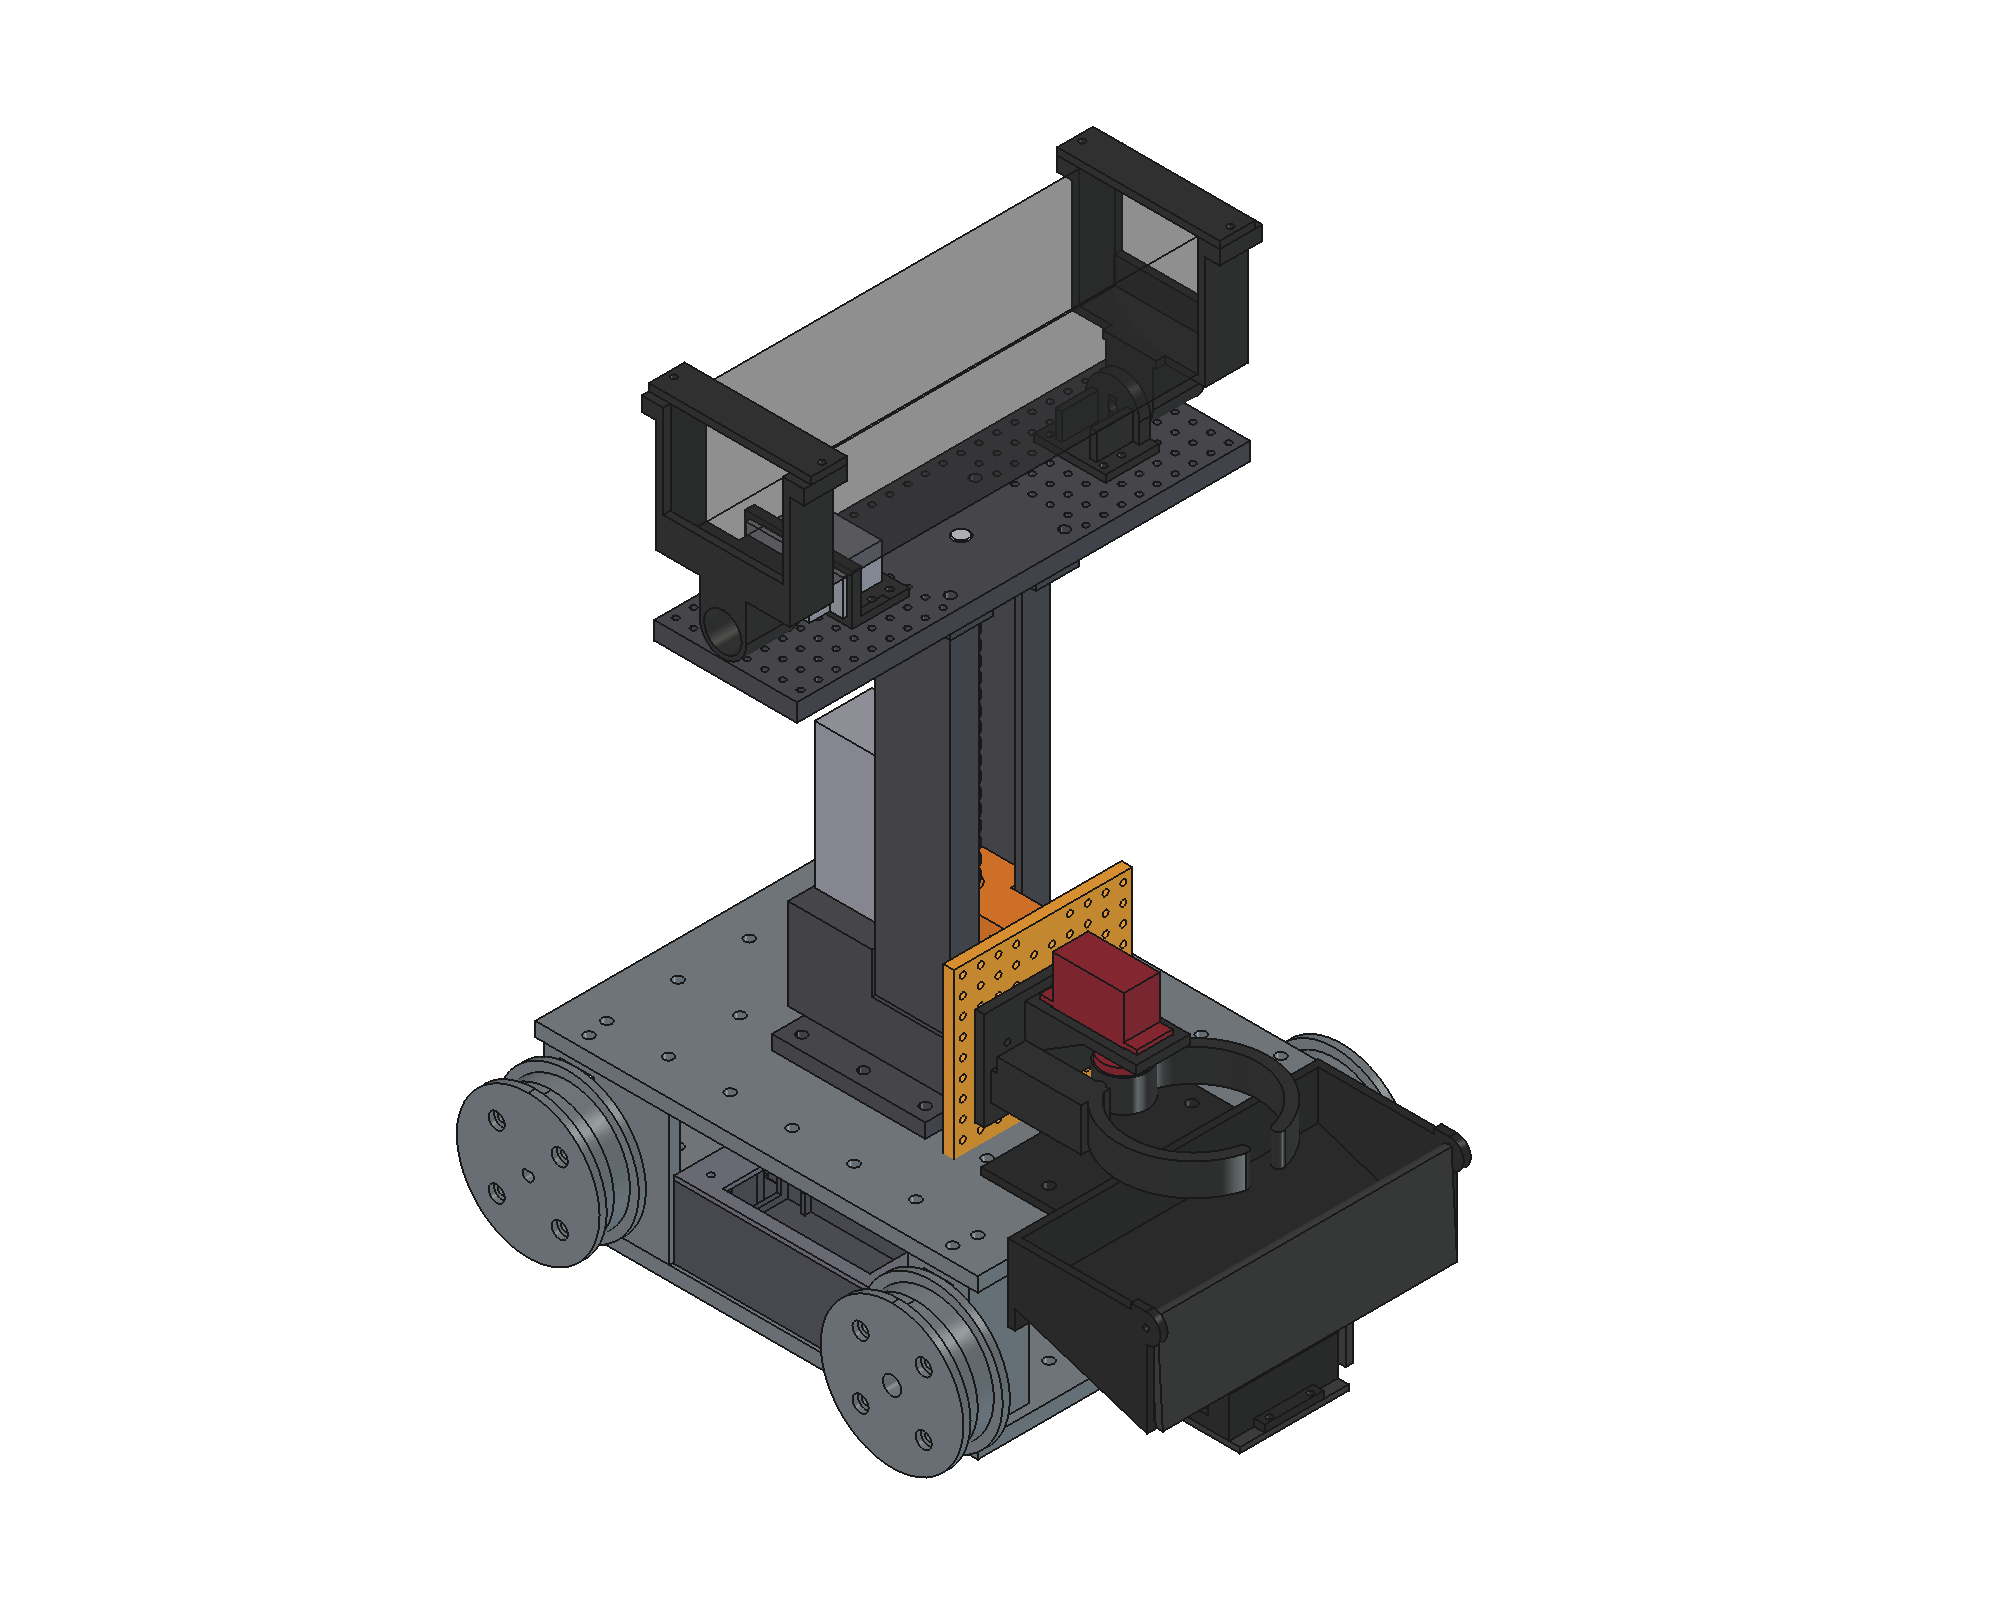
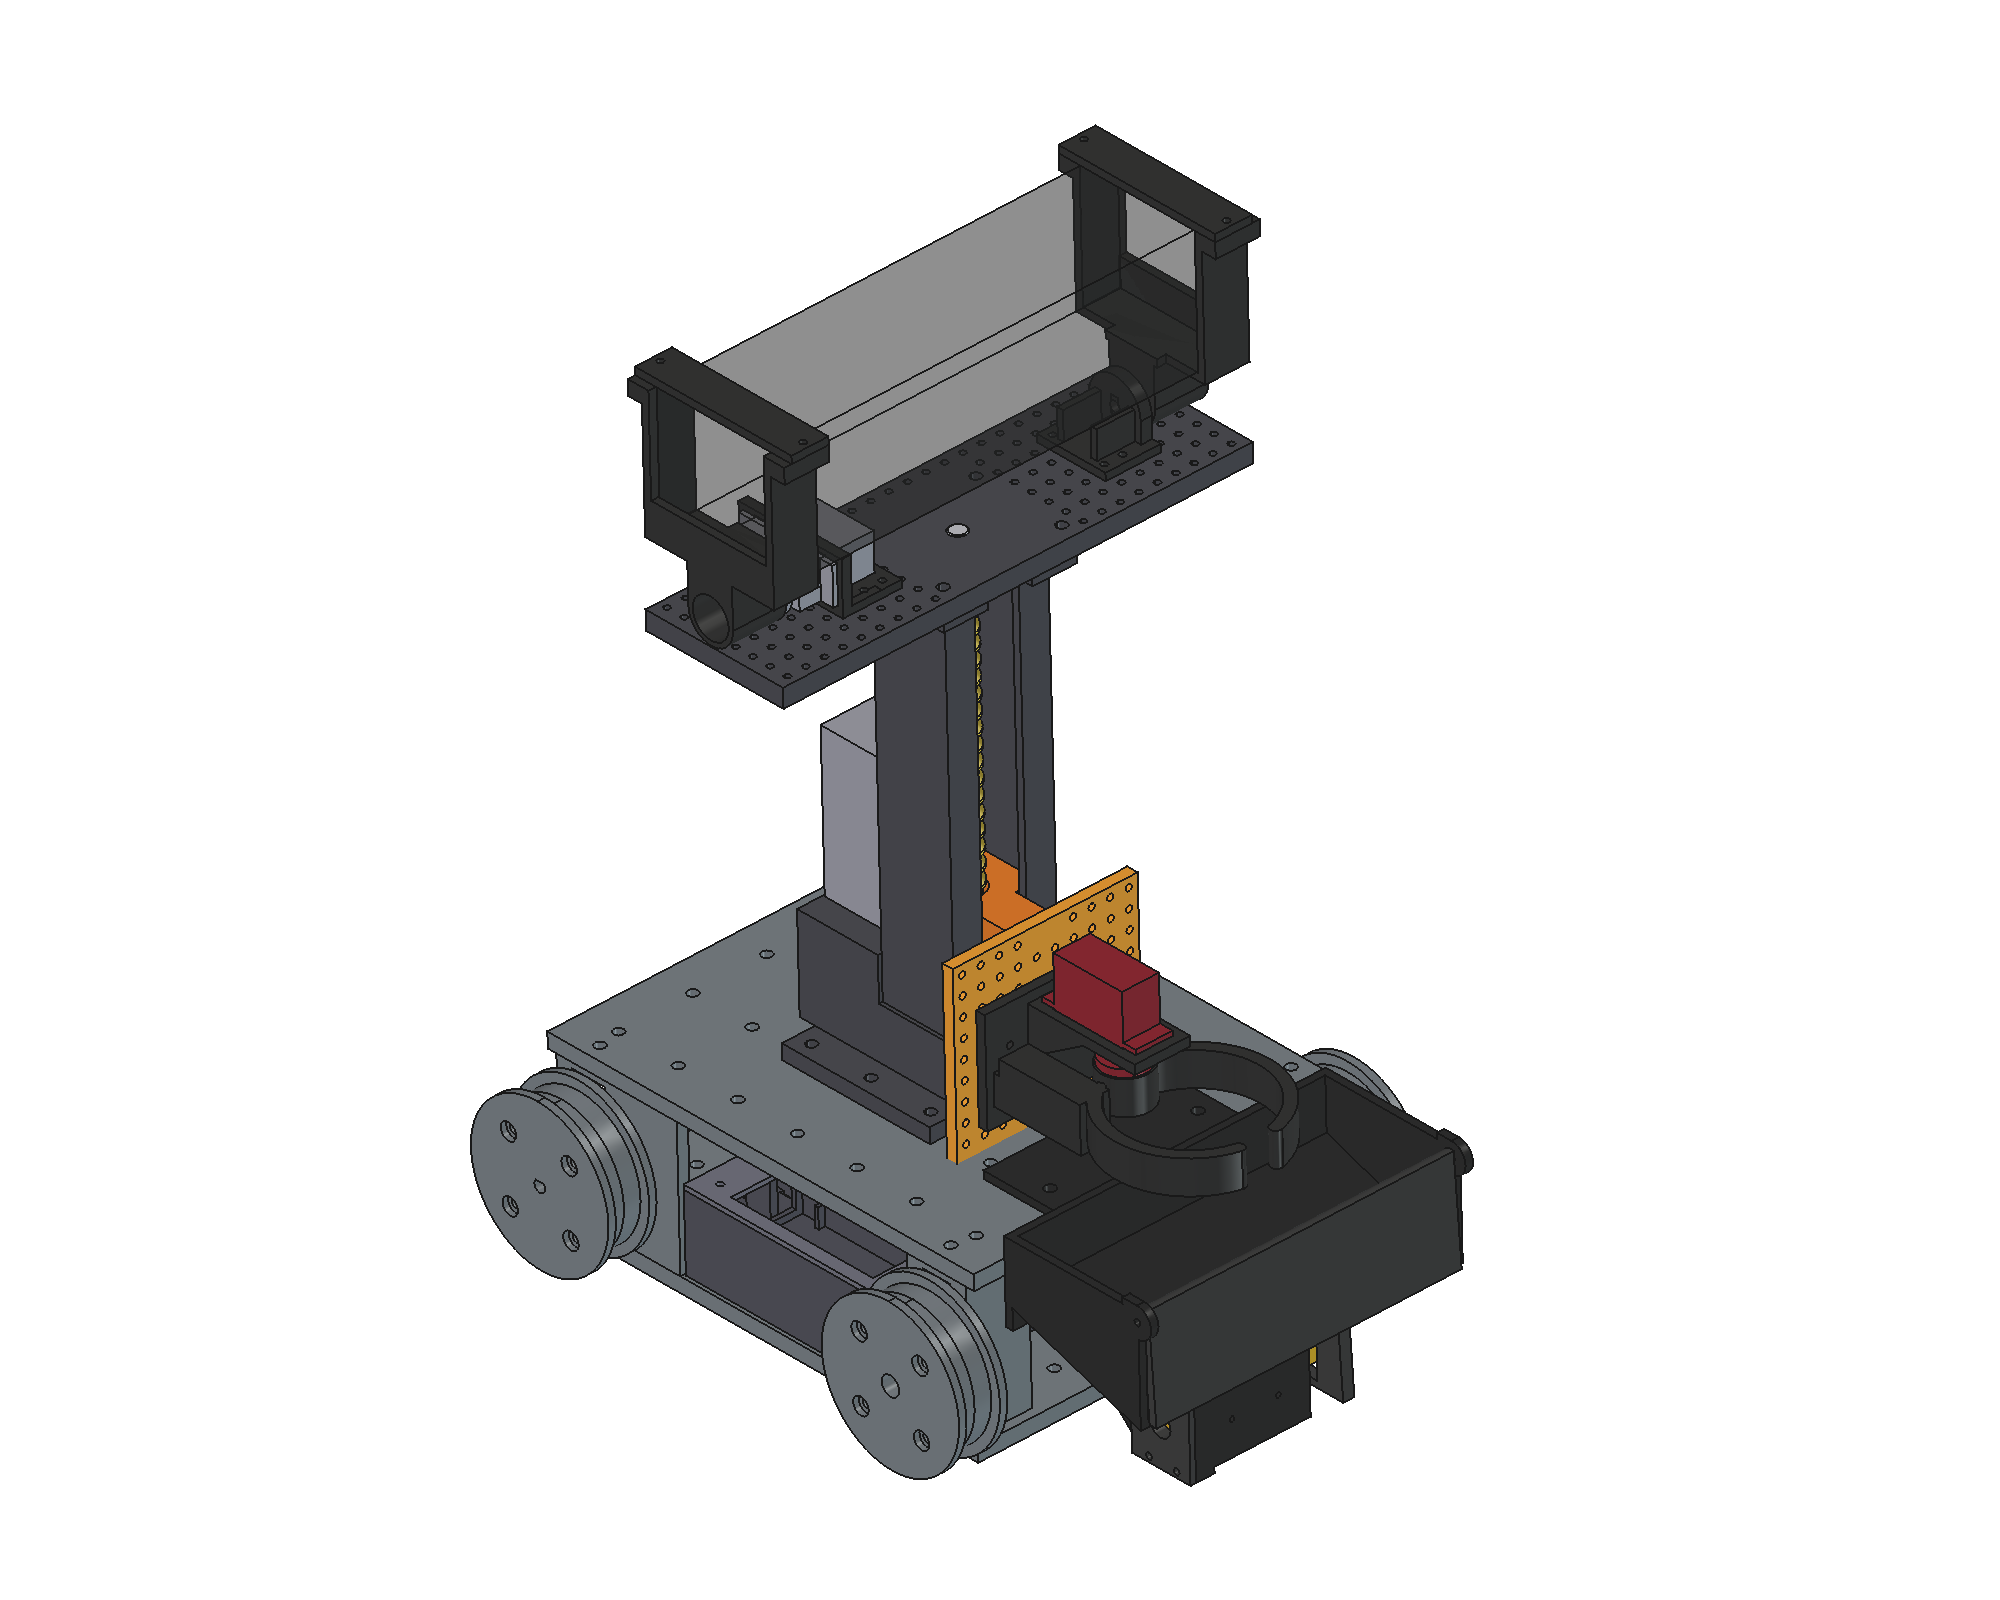
Add photos of the assembled robot; hopper v3 tested
Front and side photos of the printed robot with the hopper installed, in the
README and on the project page. Hopper v3 marked as tested: the lock fits the
tunnel and the latch locks and releases the door. Full-robot renders
regenerated with the v3 hopper.

diff --git a/docs/index.html b/docs/index.html
@@ -110,6 +110,8 @@
     <figure><img src="https://raw.githubusercontent.com/GHTassinari/CitrusHarvestingRobot/main/images/kinect-mount.png" alt="Kinect v2 tilt mount"><figcaption>Kinect v2 tilt mount: −15° to +20°</figcaption></figure>
     <figure><img src="https://raw.githubusercontent.com/GHTassinari/CitrusHarvestingRobot/main/images/gripper.png" alt="Cage gripper for oranges"><figcaption>Cage gripper: Ø72 mm ring, single servo</figcaption></figure>
     <figure><img src="https://raw.githubusercontent.com/GHTassinari/CitrusHarvestingRobot/main/images/hopper-side.png" alt="Hopper with solenoid-locked door"><figcaption>Hopper with a solenoid-locked gravity door</figcaption></figure>
+    <figure><img src="https://raw.githubusercontent.com/GHTassinari/CitrusHarvestingRobot/main/images/photo-front.jpg" alt="Photo of the assembled robot, front view"><figcaption>The assembled prototype (front)</figcaption></figure>
+    <figure><img src="https://raw.githubusercontent.com/GHTassinari/CitrusHarvestingRobot/main/images/photo-side.jpg" alt="Photo of the assembled robot, side view"><figcaption>The assembled prototype (side)</figcaption></figure>
   </div>
 
   <h2>Key specifications</h2>

diff --git a/README.md b/README.md
@@ -57,6 +57,15 @@ The platform is meant to be **expandable**: the top plates use a regular hole gr
 > [!NOTE]
 > Scope of this release: mechanics and embedded hardware. Fruit detection with computer vision, the integrated harvesting software and field tests are planned as future work (see [Roadmap](#roadmap-and-proposed-improvements)).
 
+### The assembled prototype
+
+<p align="center">
+<img src="images/photo-front.jpg" alt="Assembled prototype, front view: tracked chassis, elevator, Kinect v2 on top, gripper and hopper" width="330">
+<img src="images/photo-side.jpg" alt="Assembled prototype, side view, with the gripper above the hopper" width="330">
+</p>
+
+<p align="center"><em>Front and side views of the printed robot, with the hopper v3 installed.</em></p>
+
 ## Highlights
 
 | Subsystem | What it does | Key figures |
@@ -358,7 +367,7 @@ Bench tests on a firm indoor floor:
 | Elevator | Carriage travels the usable stroke without jamming | ✅ ~131 mm stroke. ⚠ Limit switches still needed. |
 | Kinect mount | Tilt −15° to +20° without collision | ✅ Assembled and tilting. |
 | Gripper | Opens and closes 0–75° and encloses the fruit | ✅ Works after the 8 mm fixed-jaw correction. |
-| Hopper | Door opens with the solenoid and relocks | 🔧 Verified in CAD (0–90° door swing). Physical test pending. |
+| Hopper | Lock fits; the latch holds the door shut and releases it when retracted | ✅ v3 printed and installed on the robot: the lock fits the 29 × 30 mm tunnel and the latch locks and releases the door. |
 
 What went wrong along the way, and how each problem was solved, is documented in **[docs/design-log.md](docs/design-log.md)**.
 

diff --git a/docs/design-log.md b/docs/design-log.md
@@ -54,7 +54,7 @@ The prototype was developed in short **design → print → assemble → test** 
 
 ## Hopper
 
-Designed and checked in CAD: the door swings 0–90° without collision and the body holds two oranges. It uses only existing holes, so it can be added without changing any other part.
+Version 3 was printed, installed on the robot and works: the lock fits the tunnel, and the latch holds the door shut and releases it when retracted. In CAD, the door swings 0–90° without collision and the body holds two oranges. It uses only existing holes, so it can be added without changing any other part.
 
 | Version | Problem | Fix |
 |---|---|---|
